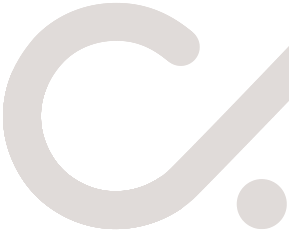
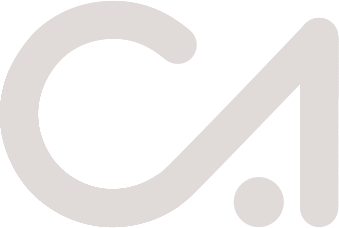
Isotipo completo y baja de eventos manuales en el panel
- Regenerar isotipo-{color,negro,claro}.png desde el isologo horizontal:
  el recorte anterior perdía la pata de la "A" en todas las cabeceras.
- Panel de Gestión de Eventos: botón "Borrar" con confirmación solo en
  eventos de carga manual (los de Autogestión son de solo lectura, ADR-0011).
  store.js expone removeEvent(id) y oculta los eventos dados de baja.

Changed region(s): [[0.0, 0.0, 1.0, 1.0]]

diff --git a/store.js b/store.js
@@ -64,6 +64,7 @@
   var K_DELETED = 'cac_deleted_benefits';   // ids dados de baja (base o extra)
   var K_EVENTS  = 'cac_extra_events';       // eventos cargados/editados a mano (ADR-0009)
   var K_EDIT_EV = 'cac_edit_event';         // evento en edición (precarga del formulario)
+  var K_DEL_EV  = 'cac_deleted_events';     // ids de eventos manuales dados de baja
 
   function read(key, fallback) {
     try { var v = localStorage.getItem(key); return v ? JSON.parse(v) : fallback; }
@@ -350,16 +351,24 @@
     return null;
   }
   /* ---------- Eventos (ADR-0009): base (API) + carga manual (localStorage) ---------- */
+  function getDeletedEvents() {
+    var arr = read(K_DEL_EV, []);
+    return Array.isArray(arr) ? arr.map(String) : [];
+  }
   function getExtraEvents() {
     var arr = read(K_EVENTS, []);
-    return Array.isArray(arr) ? arr.map(normalizeEvent) : [];
+    var del = getDeletedEvents();
+    return Array.isArray(arr)
+      ? arr.map(normalizeEvent).filter(function (e) { return del.indexOf(String(e.id)) < 0; })
+      : [];
   }
   // Un extra con el mismo id que un evento base lo REEMPLAZA (edición en su lugar).
   // Orden: por fecha de inicio ascendente; sin fecha, al final.
   function allEvents() {
     var extras = getExtraEvents(), over = {};
     extras.forEach(function (e) { over[String(e.id)] = true; });
-    var base = EVENTS.filter(function (e) { return !over[String(e.id)]; });
+    var del = getDeletedEvents();
+    var base = EVENTS.filter(function (e) { var id = String(e.id); return !over[id] && del.indexOf(id) < 0; });
     return base.concat(extras).sort(function (a, b) {
       var da = parseLocal(a.inicio), db = parseLocal(b.inicio);
       if (!da && !db) return 0; if (!da) return 1; if (!db) return -1;
@@ -387,10 +396,23 @@
   function findEventById(id) {
     if (!id) return null;
     var sid = String(id);
+    if (getDeletedEvents().indexOf(sid) >= 0) return null;
     var extras = getExtraEvents();            // la edición manual tiene prioridad
     for (var i = 0; i < extras.length; i++) if (String(extras[i].id) === sid) return extras[i];
     for (var j = 0; j < EVENTS.length; j++) if (String(EVENTS[j].id) === sid) return EVENTS[j];
     return null;
+  }
+  // Baja de un evento. Solo los de carga manual: los de Autogestión son de
+  // solo lectura en el Portal (ADR-0011).
+  function removeEvent(id) {
+    var ev = findEventById(id);
+    if (!ev || ev.origen !== 'manual') return false;
+    var sid = String(id);
+    var arr = read(K_EVENTS, []); if (!Array.isArray(arr)) arr = [];
+    write(K_EVENTS, arr.filter(function (e) { return String(e.id) !== sid; }));
+    var del = getDeletedEvents();
+    if (del.indexOf(sid) < 0) { del.push(sid); write(K_DEL_EV, del); }
+    return true;
   }
   function getEditEvent()  { return read(K_EDIT_EV, null); }
   function setEditEvent(e) { return write(K_EDIT_EV, e || null); }
@@ -446,7 +468,7 @@
     getEdit: getEdit, setEdit: setEdit, clearEdit: clearEdit,
     // eventos (ADR-0009)
     allEvents: allEvents, upcomingEvents: upcomingEvents, findEventById: findEventById,
-    addOrUpdateEvent: addOrUpdateEvent, normalizeEvent: normalizeEvent,
+    addOrUpdateEvent: addOrUpdateEvent, normalizeEvent: normalizeEvent, removeEvent: removeEvent,
     getEditEvent: getEditEvent, setEditEvent: setEditEvent, clearEditEvent: clearEditEvent,
     eventDateLabel: eventDateLabel, parseLocal: parseLocal, categoriaColor: categoriaColor,
     // mis beneficios (matriculado)

diff --git a/panel-control.html b/panel-control.html
@@ -74,6 +74,7 @@
 .pc-event-hero{position:relative;height:210px;overflow:hidden;margin-top:auto;}
 .pc-event-img{width:100%;height:210px;background-size:cover;background-position:center;}
 .pc-event-hero-dark{width:100%;height:210px;background:var(--color-pizarra);display:flex;flex-direction:column;align-items:center;justify-content:center;}
+.pc-event-delete{position:absolute;bottom:12px;right:12px;background:#fff;color:#E8376F;border:1.5px solid #E8376F;border-radius:7px;padding:7px 12px;font-size:13px;font-family:var(--font-display);font-weight:600;box-shadow:0 2px 12px rgba(0,0,0,.22);display:flex;align-items:center;gap:6px;cursor:pointer;transition:all 160ms;}
 .pc-event-edit{position:absolute;bottom:12px;left:12px;background:var(--color-terracota);color:#fff;border:none;border-radius:7px;padding:8px 16px;font-size:13px;font-family:var(--font-display);font-weight:600;box-shadow:0 2px 12px rgba(0,0,0,.22);display:flex;align-items:center;gap:6px;cursor:pointer;transition:all 160ms;}
 
 @media (max-width:960px){
@@ -1018,6 +1019,12 @@ p, span, td, li, input, button, textarea, select {
                   <svg width="14" height="14" viewBox="0 0 24 24" fill="none" stroke="currentColor" stroke-width="2.4" stroke-linecap="round" stroke-linejoin="round"><path d="M11 4H4a2 2 0 0 0-2 2v14a2 2 0 0 0 2 2h14a2 2 0 0 0 2-2v-7"></path><path d="M18.5 2.5a2.121 2.121 0 0 1 3 3L12 15l-4 1 1-4 9.5-9.5z"></path></svg>
                   Editar evento
                 </button>
+                <sc-if value="{{ ev.isManual }}" hint-placeholder-val="{{ false }}">
+                  <button onclick="{{ ev.onDelete }}" class="pc-event-delete" style-hover="background:#E8376F;color:#fff;" title="Borrar evento">
+                    <svg width="14" height="14" viewBox="0 0 24 24" fill="none" stroke="currentColor" stroke-width="2.2" stroke-linecap="round" stroke-linejoin="round"><polyline points="3 6 5 6 21 6"></polyline><path d="M19 6v14a2 2 0 0 1-2 2H7a2 2 0 0 1-2-2V6m3 0V4a2 2 0 0 1 2-2h4a2 2 0 0 1 2 2v2"></path></svg>
+                    Borrar
+                  </button>
+                </sc-if>
               </div>
             </div>
           </sc-for>
@@ -1104,6 +1111,11 @@ class Component extends DCLogic {
     if (ev) window.CAC.setEditEvent(ev);
     window.location.href = 'formulario-evento.html?mode=edit&from=panel';
   }
+  deleteEvent(id, title) {
+    if (!window.confirm('¿Borrar el evento "' + (title || '') + '"? Se quitará de la agenda.')) return;
+    window.CAC.removeEvent(id);
+    window.location.reload();
+  }
   deleteBenefit(id, name) {
     if (!window.confirm('¿Borrar el beneficio "' + (name || '') + '"? Se quitará de todo el sistema.')) return;
     window.CAC.removeBenefit(id);
@@ -1162,7 +1174,9 @@ class Component extends DCLogic {
       noImg: !ev.img,
       origenLabel: ev.origen === 'manual' ? 'Carga manual' : 'Autogestión',
       origenClass: ev.origen === 'manual' ? 'pc-origen-manual' : 'pc-origen-api',
+      isManual: ev.origen === 'manual',
       onEdit: () => self.editEvent(ev.id),
+      onDelete: () => self.deleteEvent(ev.id, ev.title),
     }));
 
     const headerTitle = view === 'beneficios' ? 'Gestión de Beneficios'

diff --git a/CAMBIOS.md b/CAMBIOS.md
@@ -96,6 +96,16 @@ Decisiones tomadas al aplicar la marca (a ratificar en E5):
   todo corra sin internet se pueden empaquetar los `.woff2` en `assets/`.
 - **Radios y espaciados** no cambian: el PDF no los define.
 
+## Correcciones (25/09/2026)
+
+- **Isotipo recortado.** `assets/marca/isotipo-{color,negro,claro}.png` habían salido del PDF sin la
+  pata de la "A": en las cabeceras de todas las vistas posteriores al login se veía solo la "C". Se
+  regeneraron recortando el símbolo del isologo horizontal correspondiente, que está completo.
+- **Borrar eventos desde el panel.** La vista *Gestión de Eventos* solo permitía editar. Se agrega
+  "Borrar" (con confirmación) **solo en los eventos de carga manual**: los de Autogestión son de solo
+  lectura en el Portal ([ADR-0011]). La baja se guarda en `cac_deleted_events` y oculta el evento en
+  toda la agenda (panel, menú, calendario). `store.js` expone `removeEvent(id)`.
+
 ## Pendientes que no entran acá
 
 - **Pantalla de ingreso**: bloqueada hasta la reunión técnica (ADR-0006 §5, SP1-50).
